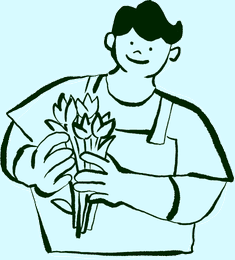
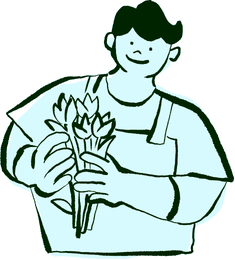
Match the latest 个人介绍页: light background, white cards; drop the MCP page
取色确认整页都是 #d7faff，卡片是纯白 —— 我之前把项目展示做成了通栏墨绿，
方向就是错的。改回同底色，靠白卡区分层次。

连带修两处因此暴露的问题：
- 两张卡片插画原来是按页面浅蓝调的底色，放到白卡上就成了看不见的蓝方块。
  改成按白底调。
- 四张图原始比例差很多（拍立得竖、香槟杯细长、看板超高），卡片高度参差不齐。
  图片区定死 190px、object-fit:contain，正文区 flex:1 吃掉剩余高度，四张等高。
  用 contain 不用 cover，否则线稿会被裁掉手脚。

「快速试试」加粗。注意 .example-label 是和 .section-kicker、.mini-label 共用一条
规则的，直接加 font-weight 会把另外两个也带粗，所以单独拆了一条。

删掉 /tools/mcp 那一页：它不在设计稿的四页里，而且正文是写给我自己看的技术说明
（stdio 模式、clone 仓库、薄封装），不是给访客看的东西。

diff --git a/app/globals.css b/app/globals.css
@@ -340,6 +340,12 @@ img {
   letter-spacing: 0.01em;
 }
 
+/* 「快速试试」要加粗，但上面那条是三个类共用的，直接加会把另外两个也带粗。 */
+.example-label {
+  font-weight: 700;
+  color: var(--ink);
+}
+
 /* Page title — one per page, sits under the grey eyebrow.
    Set in a serif: against the neutral sans of the body it reads as more
    formal and more restrained, which suits an editorial sheet. Only the h1
@@ -979,29 +985,10 @@ input[type="radio"]:checked {
    Projects
    ========================================================================== */
 
-/* 通栏深色段：挣脱居中的内容列，铺满整个视口宽度。
-   100vw 会把滚动条宽度也算进去，所以用 100% + 负边距的写法，不会横向溢出。 */
-.bleed-dark {
-  margin-left: calc(50% - 50vw + var(--sb, 0px) / 2);
-  margin-right: calc(50% - 50vw + var(--sb, 0px) / 2);
-  width: auto;
-  background: var(--paper-dark);
-  color: var(--ink-on-dark);
-  padding: 72px 0 84px;
-  margin-top: 90px;
-}
-
-.bleed-inner {
-  max-width: 1180px;
-  margin: 0 auto;
-  padding: 0 40px;
-}
-
-.bleed-dark .project-card-body h3 {
-  margin: 0 0 8px;
-  font-size: 15px;
-  font-weight: 700;
-  text-align: center;
+/* 项目展示跟上半同底色 —— 取色确认整页都是 #d7faff，没有深色段。
+   区分靠的是白卡片，不是换背景。 */
+.projects-section {
+  padding-top: 96px;
 }
 
 /* 整页反色。导航跟着翻，所以单独给 page-shell 加一个修饰类，
@@ -1016,49 +1003,61 @@ input[type="radio"]:checked {
 }
 
 .projects-title {
-  margin: 0 0 56px;
+  margin: 0 0 44px;
   font-family: "Noto Serif SC", var(--sans);
   font-weight: 700;
-  font-size: 40px;
+  font-size: 38px;
   text-align: center;
-  color: var(--ink-on-dark);
+  color: var(--ink);
 }
 
 /* 四张卡横排，窄屏两列再到一列。minmax(0,1fr) 防止长词把列撑破。 */
+/* 四张卡等高：align-items 默认 stretch，加上卡内 flex 让正文区吃掉剩余高度，
+   图片区高度固定 —— 四张图原始比例差很多（拍立得竖、香槟杯细长、看板超高），
+   不定死图片区的话卡片高度会参差不齐。 */
 .project-cards {
   display: grid;
   grid-template-columns: repeat(4, minmax(0, 1fr));
   gap: 18px;
-  align-items: start;
 }
 
+/* 白卡：取色确认卡片底是纯白，不是页面的浅蓝。 */
 .project-card {
   display: flex;
   flex-direction: column;
-  background: var(--paper);
+  background: #ffffff;
   color: var(--ink);
-  border-radius: 12px;
+  border-radius: 14px;
   overflow: hidden;
+  box-shadow: 0 1px 4px rgba(0, 36, 0, 0.07);
 }
 
 .project-card-media {
   display: flex;
   align-items: center;
   justify-content: center;
-  padding: 14px 14px 0;
+  height: 190px;
+  padding: 16px 16px 0;
 }
 
+/* contain 而不是 cover：这几张一张是照片、一张是截图、两张是线稿，
+   cover 会把线稿裁掉手脚。 */
 .project-card-media img {
-  width: 100%;
+  max-width: 100%;
+  max-height: 100%;
+  width: auto;
   height: auto;
+  object-fit: contain;
   border-radius: 6px;
 }
 
 .project-card-body {
-  padding: 14px 16px 20px;
+  flex: 1;
+  padding: 14px 16px 22px;
 }
 
-.project-card-body h2 {
+.project-card-body h2,
+.project-card-body h3 {
   margin: 0 0 8px;
   font-size: 15px;
   font-weight: 700;

diff --git a/components/about-page.tsx b/components/about-page.tsx
@@ -54,9 +54,8 @@ export function AboutPage() {
         </div>
       </section>
 
-      {/* 通栏深色段。width:100vw + 负边距让它挣脱居中的内容列，铺满整个视口宽度。 */}
-      <section className="bleed-dark" id="projects">
-        <div className="bleed-inner">
+      <section className="projects-section" id="projects">
+        <div>
           <h2 className="projects-title">{projects.title}</h2>
 
           <div className="project-cards">

diff --git a/app/sitemap.ts b/app/sitemap.ts
@@ -9,7 +9,6 @@ const routes = [
   { path: "/ai-learning", priority: 0.8 },
   { path: "/tools", priority: 0.8 },
   { path: "/tools/youtube", priority: 0.7 },
-  { path: "/tools/mcp", priority: 0.6 },
   ...promptLibrary.map((entry) => ({ path: `/prompts/${entry.slug}`, priority: 0.5 }))
 ];
 

diff --git a/components/tools-page.tsx b/components/tools-page.tsx
@@ -39,7 +39,6 @@ export function ToolsPage() {
 
         <div className="about-links">
           <Link href={feature.href}>{feature.action}</Link>
-          <Link href="/tools/mcp">看怎么接入 MCP</Link>
         </div>
       </section>
     </main>
